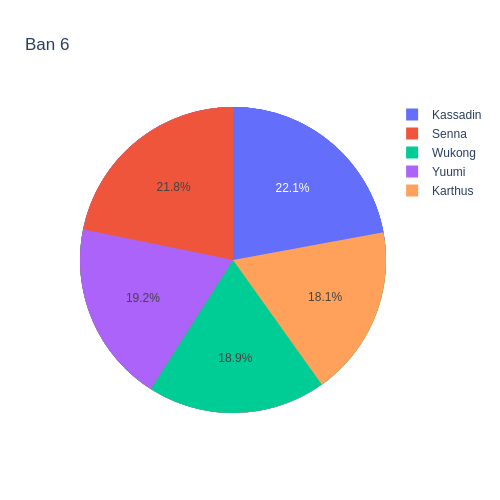
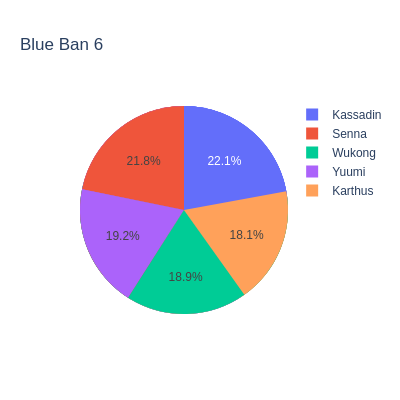
Change ban selection format

diff --git a/EDA/Features.py b/EDA/Features.py
@@ -336,9 +336,9 @@ def feature_eda(df):
         ))
 
         blue_fig.update_layout(
-            title='{} {}'.format(ban[0:3].capitalize(), ban[4:]),
-            width=500,
-            height=500
+            title='Blue {} {}'.format(ban[0:3].capitalize(), ban[4:]),
+            width=400,
+            height=400
         )
 
         red_fig.add_trace(go.Pie(
@@ -348,13 +348,13 @@ def feature_eda(df):
         ))
 
         red_fig.update_layout(
-            title='{} {}'.format(ban[0:3].capitalize(), ban[4:]),
-            width=500,
-            height=500
+            title='Red {} {}'.format(ban[0:3].capitalize(), ban[4:]),
+            width=400,
+            height=400
         )
 
         #blue_fig.show()
-        #red_fig.show()
+        red_fig.show()
 
 
 

diff --git a/README.md b/README.md
@@ -109,21 +109,27 @@ Creep Score, or CS, is one of the most important aspects of League. Having a goo
 ![image](Charts/CSPerMin.png)
 
 ### Champion Bans
-
-#### When Blue Wins
-![image](Charts/bans/blue/ban_1.png) ![image](Charts/bans/blue/ban_2.png)  
-![image](Charts/bans/blue/ban_3.png) ![image](Charts/bans/blue/ban_4.png)  
-![image](Charts/bans/blue/ban_5.png) ![image](Charts/bans/blue/ban_6.png)  
-![image](Charts/bans/blue/ban_7.png) ![image](Charts/bans/blue/ban_8.png)  
-![image](Charts/bans/blue/ban_9.png) ![image](Charts/bans/blue/ban_10.png)  
+These are the most frequent bans when a team wins. Unfortunately the API doesn't give information on who picked first, so when it says "Blue" or "Red" it just means the team that won
+#### Ban 1
+![image](Charts/bans/blue/ban_1.png) ![image](Charts/bans/red/ban_1.png)  
+#### Ban 2 
+![image](Charts/bans/blue/ban_2.png) ![image](Charts/bans/red/ban_2.png)  
+#### Ban 3
+![image](Charts/bans/blue/ban_3.png) ![image](Charts/bans/red/ban_3.png)  
+#### Ban 4 
+![image](Charts/bans/blue/ban_4.png) ![image](Charts/bans/red/ban_4.png)  
+#### Ban 5   
+![image](Charts/bans/blue/ban_5.png) ![image](Charts/bans/red/ban_5.png)  
+#### Ban 6 
+![image](Charts/bans/blue/ban_6.png) ![image](Charts/bans/red/ban_6.png)  
+#### Ban 7 
+![image](Charts/bans/blue/ban_7.png) ![image](Charts/bans/red/ban_7.png)  
+#### Ban 8  
+![image](Charts/bans/blue/ban_8.png) ![image](Charts/bans/red/ban_8.png)  
+#### Ban 9
+![image](Charts/bans/blue/ban_9.png) ![image](Charts/bans/red/ban_9.png)  
+#### Ban 10 
+![image](Charts/bans/blue/ban_10.png) ![image](Charts/bans/red/ban_10.png)   
  
-It seems that people in diamond and master are not fond of Kassadin at all. I would assume that bans when red team wins will consist of the same champions in these bans
-
-#### When Red Wins
-![image](Charts/bans/red/ban_1.png) ![image](Charts/bans/red/ban_2.png)  
-![image](Charts/bans/red/ban_3.png) ![image](Charts/bans/red/ban_4.png)  
-![image](Charts/bans/red/ban_5.png) ![image](Charts/bans/red/ban_6.png)  
-![image](Charts/bans/red/ban_7.png) ![image](Charts/bans/red/ban_8.png)  
-![image](Charts/bans/red/ban_9.png) ![image](Charts/bans/red/ban_10.png) 
-
-As expected, the same 5 champions were shown again. 
+It seems that people in diamond and master are not fond of Kassadin at all.
+Generally, it seems that the ban selections are very strict at the top level of play.
